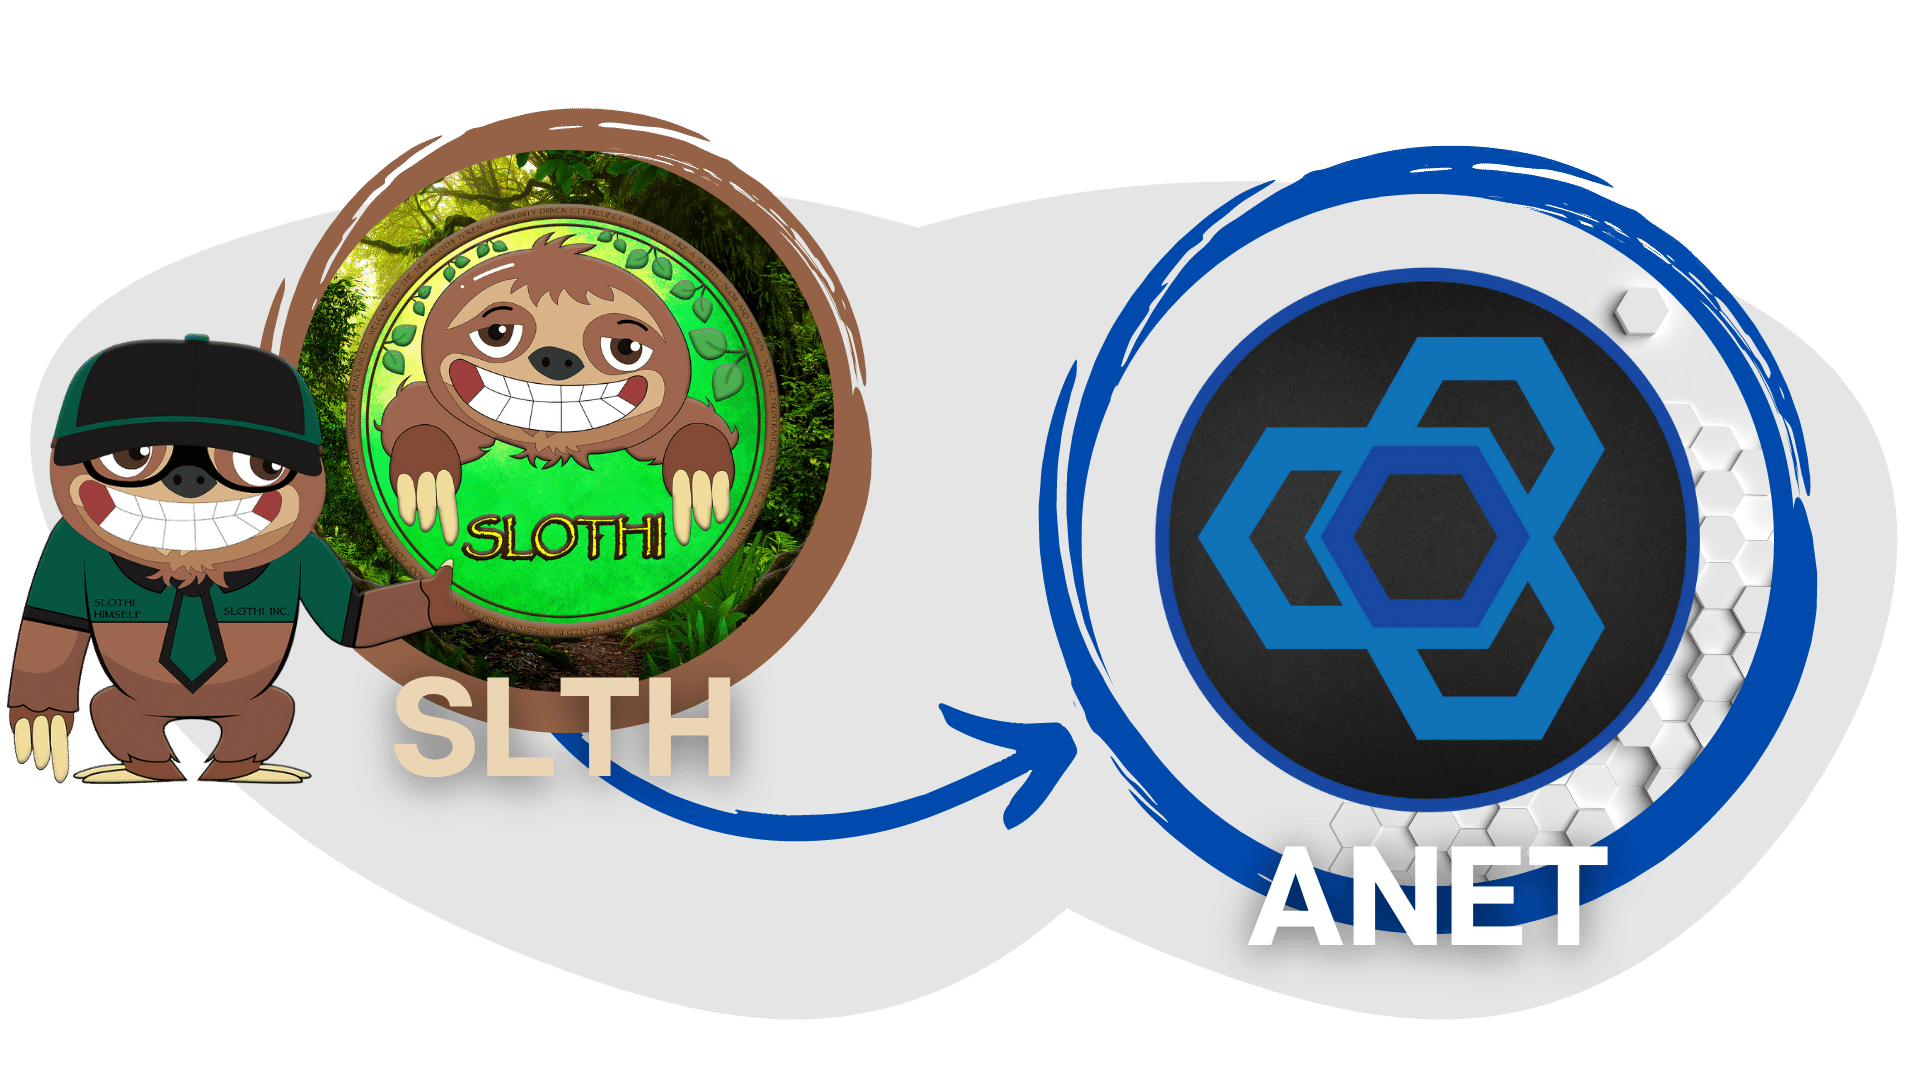
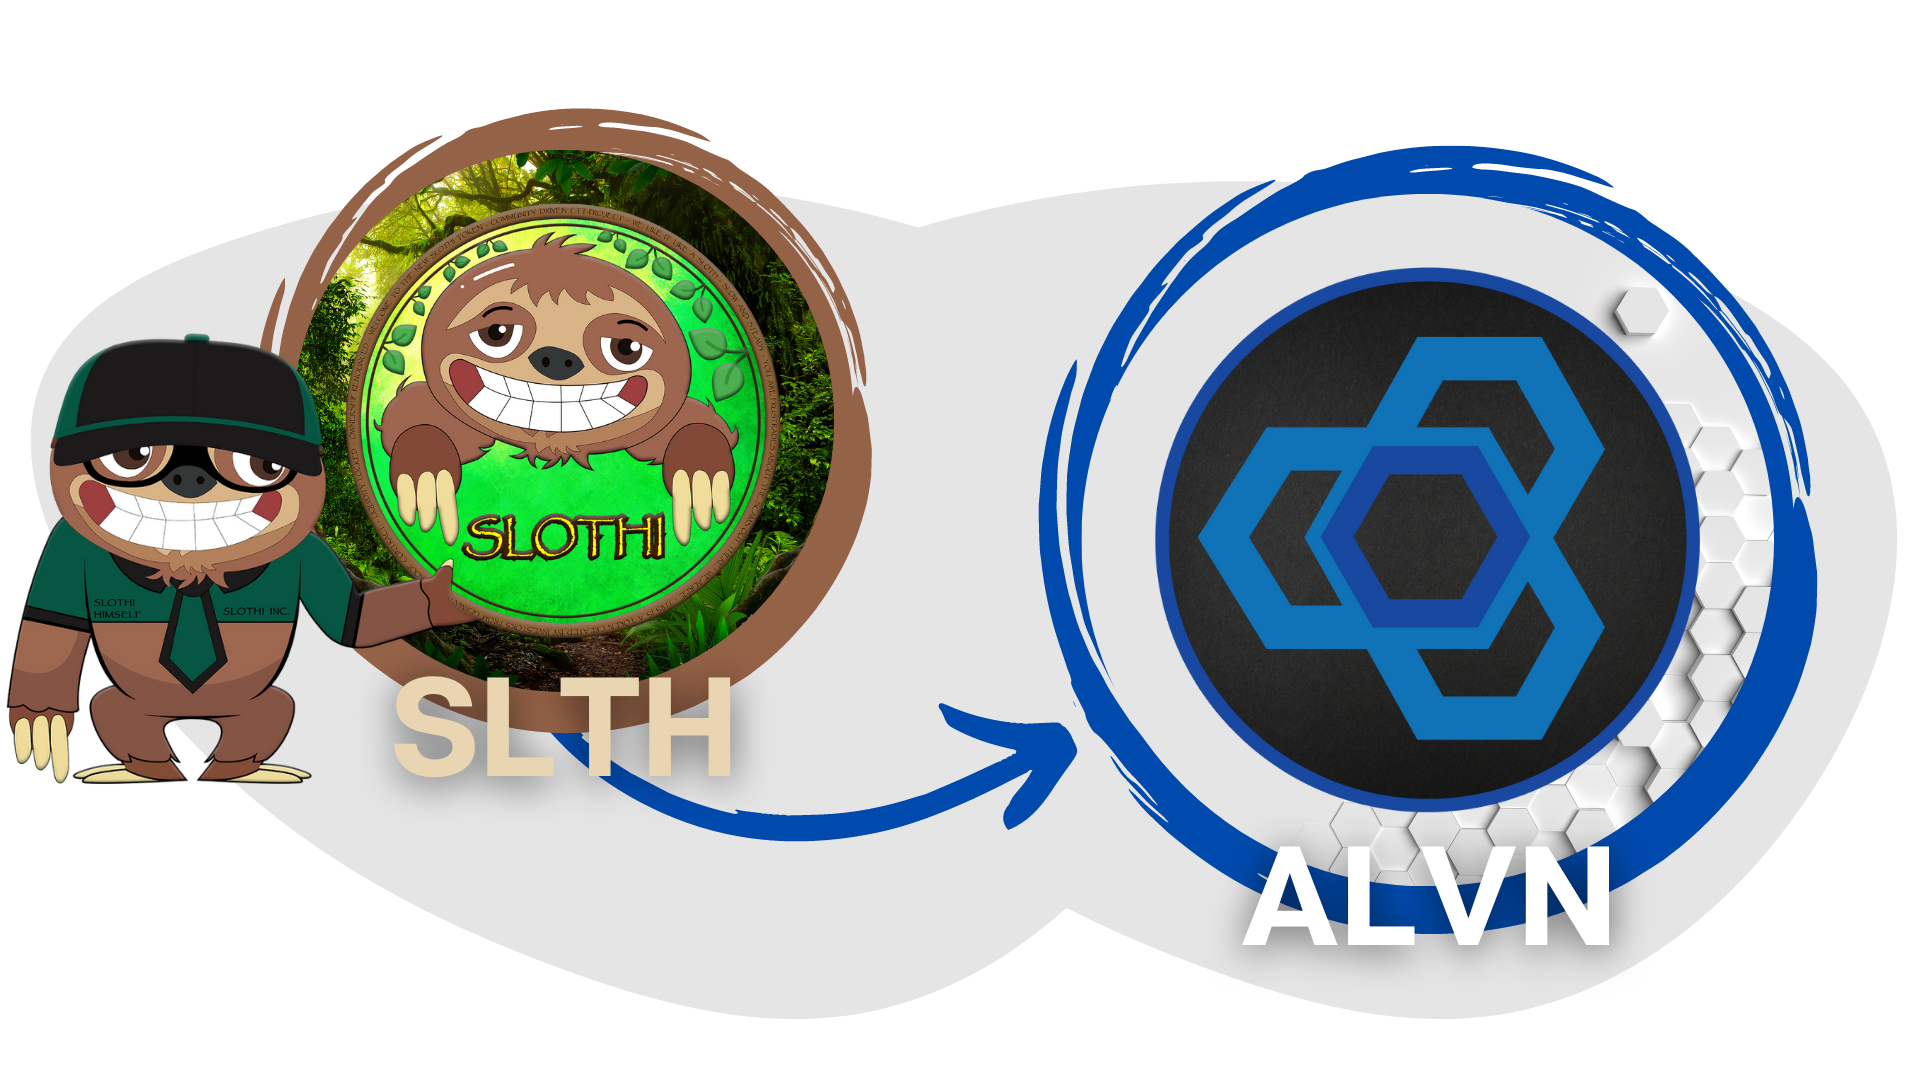
Small fixes

Changed region(s): [[0.6562, 0.7639, 0.8438, 0.8861], [0.2188, 0.1528, 0.2812, 0.1833], [0.1875, 0.275, 0.2188, 0.3056]]

diff --git a/src/i18n.ts b/src/i18n.ts
@@ -25,6 +25,9 @@ i18n
             cn: "中文"
           },
           walletConnect: {
+            unknownError: "未知错误,请尝试重新连接!",
+            wrongChain: "错误的链!",
+            wrongChainMessageLong: "请在钱包中选择正确的链! 只有bsc,binance smart chain才可以!",
             buttonConnect: "连接钱包",
             buttonDisconnect: "取消连接钱包",
             selectWallet: "选择钱包"
@@ -40,7 +43,7 @@ i18n
             swap: "兑换"
           },
           claim: {
-            suffix: " ANET 可兑换量",
+            suffix: " ALVN 可兑换量",
             now: "现在兑换",
             approve: "同意",
             connectWallet: "请连接你的钱包"
@@ -55,6 +58,9 @@ i18n
             en: "English"
           },
           walletConnect: {
+            unknownError: "Unknown Error, try reloading!",
+            wrongChain: "Wrong Chain!",
+            wrongChainMessageLong: "Wrong chain selected in wallet! Only Binance Smart Chain is supported!",
             buttonConnect: "Connect Wallet",
             buttonDisconnect: "Disconnect",
             selectWallet: "Select Wallet"
@@ -70,7 +76,7 @@ i18n
             swap: "Swap"
           },
           claim: {
-            suffix: " ANET available",
+            suffix: " ALVN available",
             now: "Claim Now",
             approve: "Approve",
             connectWallet: "Please connect your wallet"
@@ -85,6 +91,9 @@ i18n
             en: "English"
           },
           walletConnect: {
+            unknownError: "Unbekannter Error!",
+            wrongChain: "Falsche Chain!",
+            wrongChainMessageLong: "Falsche Chain aktiv im Wallet! Nur Binance Smart Chain ist supportet!",
             buttonConnect: "Wallet verbinden",
             buttonDisconnect: "Wallet trennen",
             selectWallet: "Wallet auswählen"
@@ -100,7 +109,7 @@ i18n
             swap: "Swap"
           },
           claim: {
-            suffix: " ANET verfügbar",
+            suffix: " ALVN verfügbar",
             now: "Jetzt claimen",
             approve: "Approve",
             connectWallet: "Bitte verbinde deine Wallet"

diff --git a/src/components/WalletModal/index.tsx b/src/components/WalletModal/index.tsx
@@ -12,7 +12,7 @@ import { useTranslation } from 'react-i18next';
 
 export default function WalletModal() {
   const { t } = useTranslation();
-  const { active, connector, activate, deactivate } = useWeb3React()
+  const { active, connector, activate, deactivate, error } = useWeb3React()
 
   const [show, setShow] = useState(false);
   const handleClose = () => setShow(false);
@@ -39,9 +39,12 @@ export default function WalletModal() {
     }
 
     connector &&
-      activate(connector, undefined, true).catch((error) => {
+      activate(connector, undefined, true).then(
+      ).catch((error) => {
         if (error instanceof UnsupportedChainIdError) {
+          alert(t("walletConnect.wrongChainMessageLong"))
           activate(connector) // a little janky...can't use setError because the connector isn't set
+          handleClose()
         }
       })
   }
@@ -144,12 +147,32 @@ export default function WalletModal() {
     })
   }
 
+  function getWalletbutton() {
+    if(error){
+      return (
+        <>
+      {error instanceof UnsupportedChainIdError ? 
+      <Button variant="contained" onClick={handleShow} disableElevation color='error'>
+      {t("walletConnect.wrongChain")}
+      </Button> : <Button variant="contained" onClick={handleShow} disableElevation color='error'>
+      {t("walletConnect.unknownError")}
+      </Button>}
+      </>
+      )
+      
+    }
+    else{
+      return(
+        <Button variant="contained" onClick={active ? handleDisconnect : handleShow} disableElevation>
+        {active ? t("walletConnect.buttonDisconnect") : t("walletConnect.buttonConnect")}
+        </Button>
+      )
+    }
+  }
+
   return (
     <>
-      <Button variant="contained" onClick={active ? handleDisconnect : handleShow} disableElevation>
-        {active ? t("walletConnect.buttonDisconnect") : t("walletConnect.buttonConnect")}
-      </Button>
-
+      {getWalletbutton()}
       <Dialog open={show} onClose={handleClose} sx={{
         background: "rgba(0,0,0,0.5)",
         ['.MuiDialog-paper']: {
